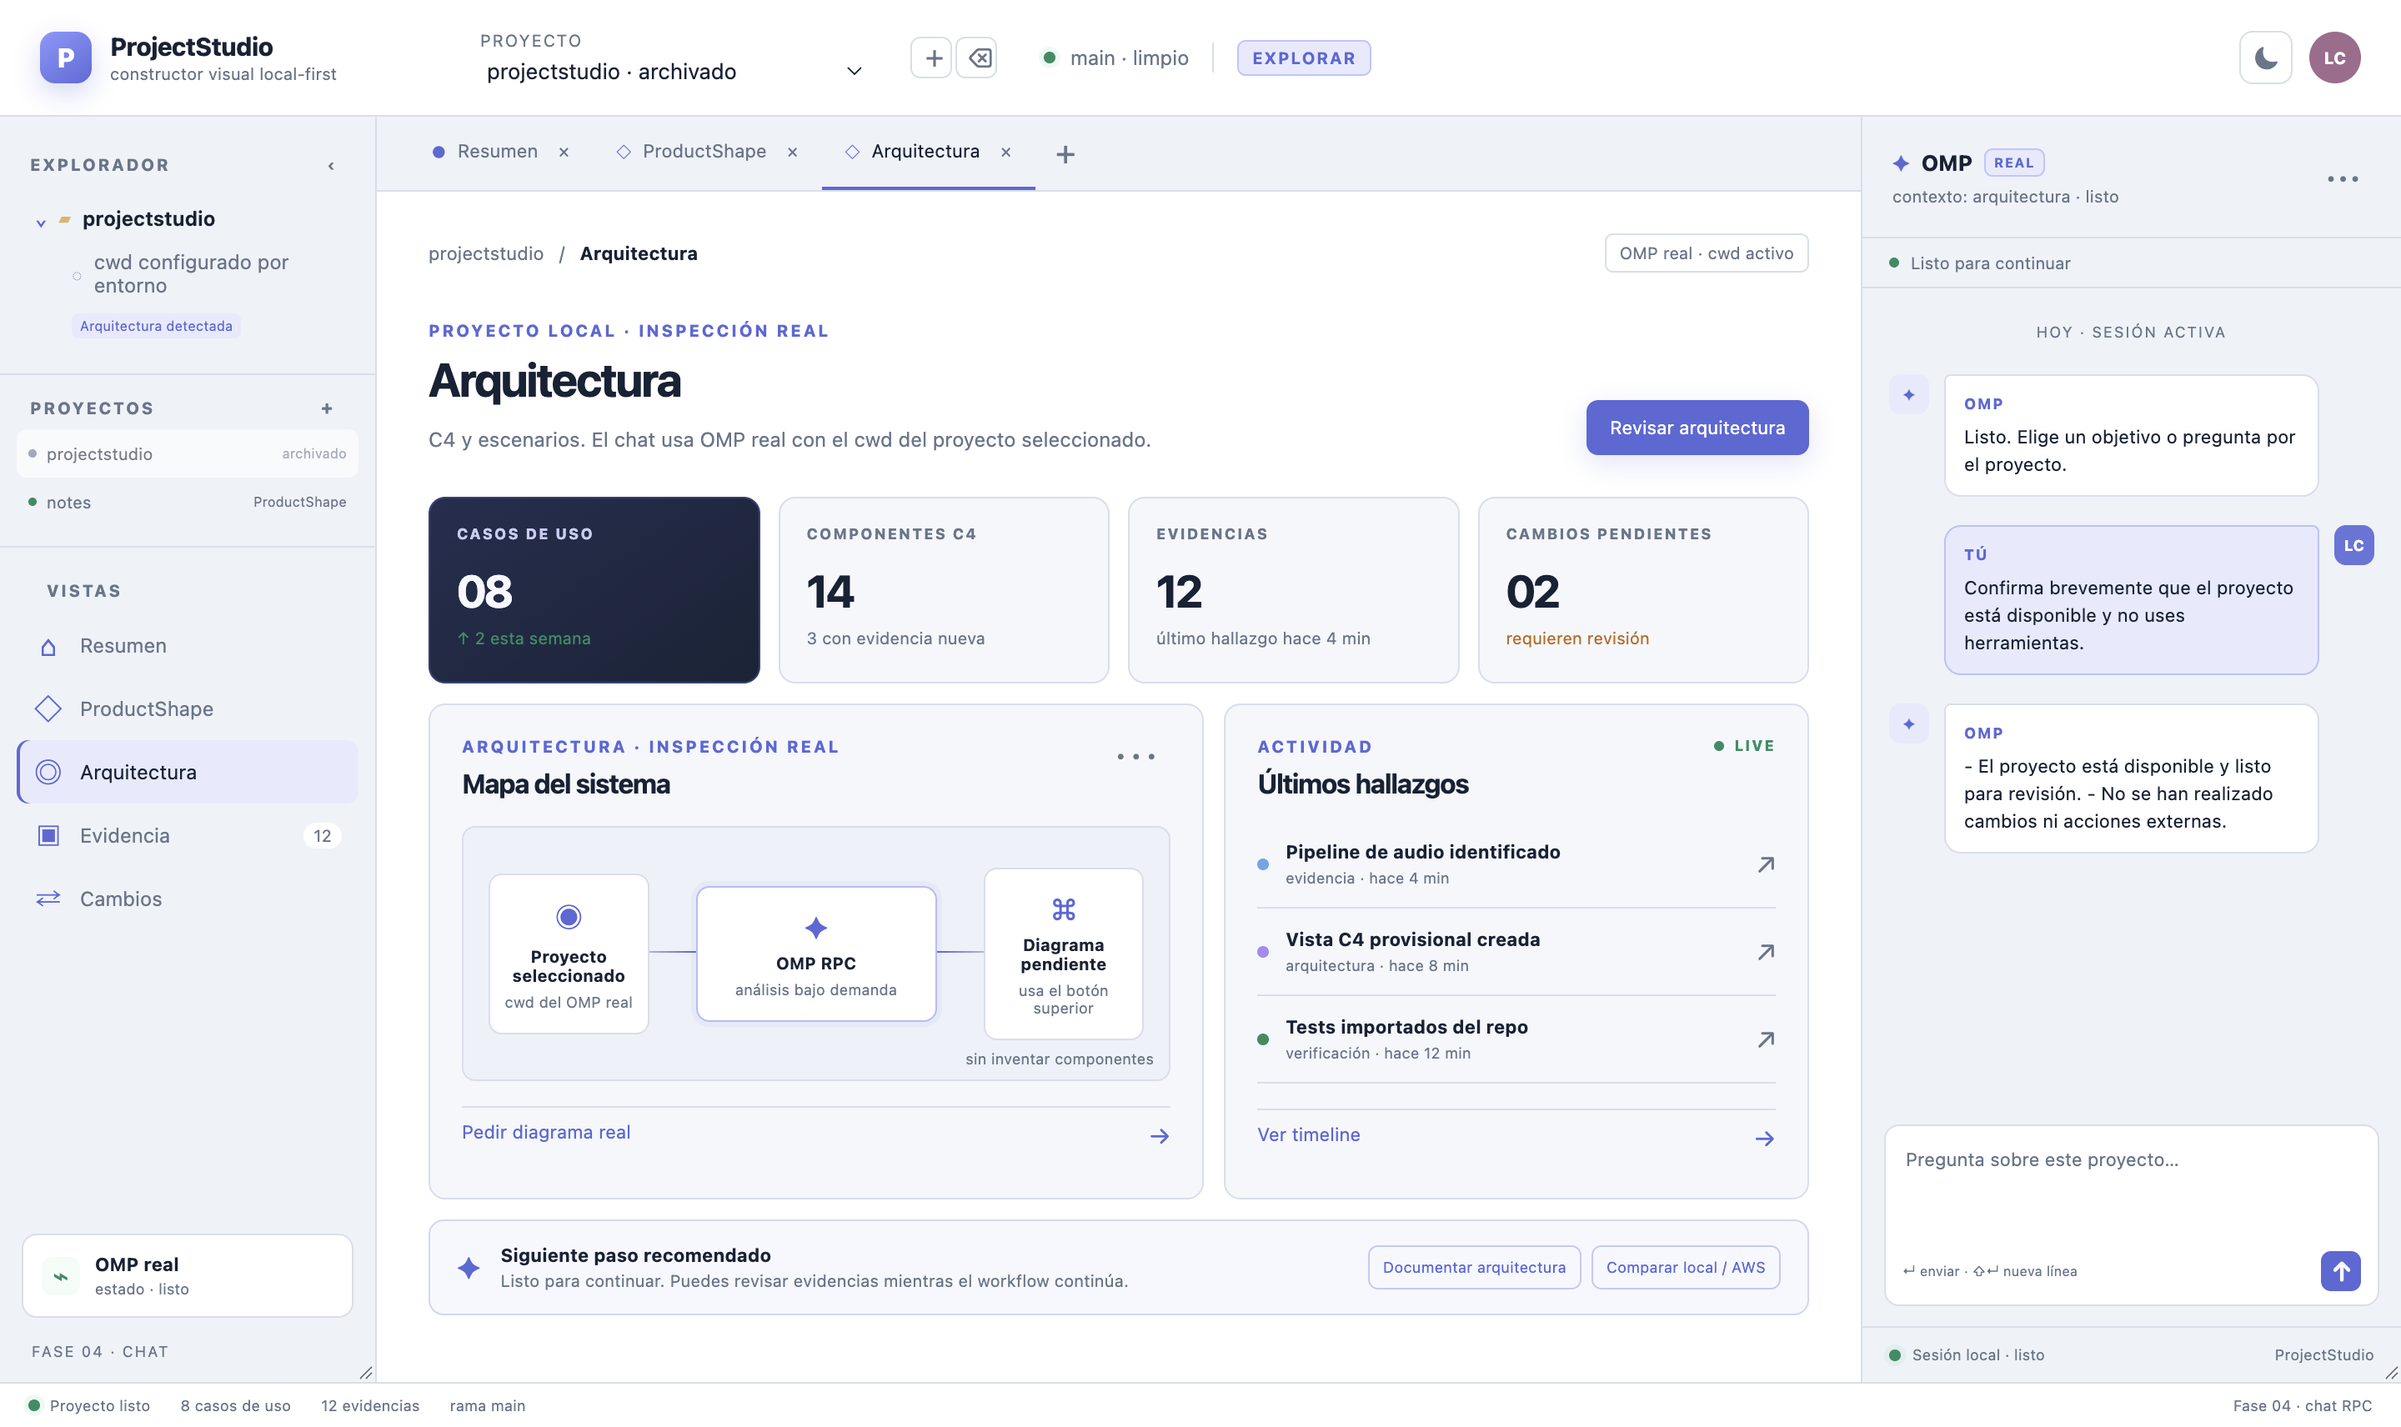
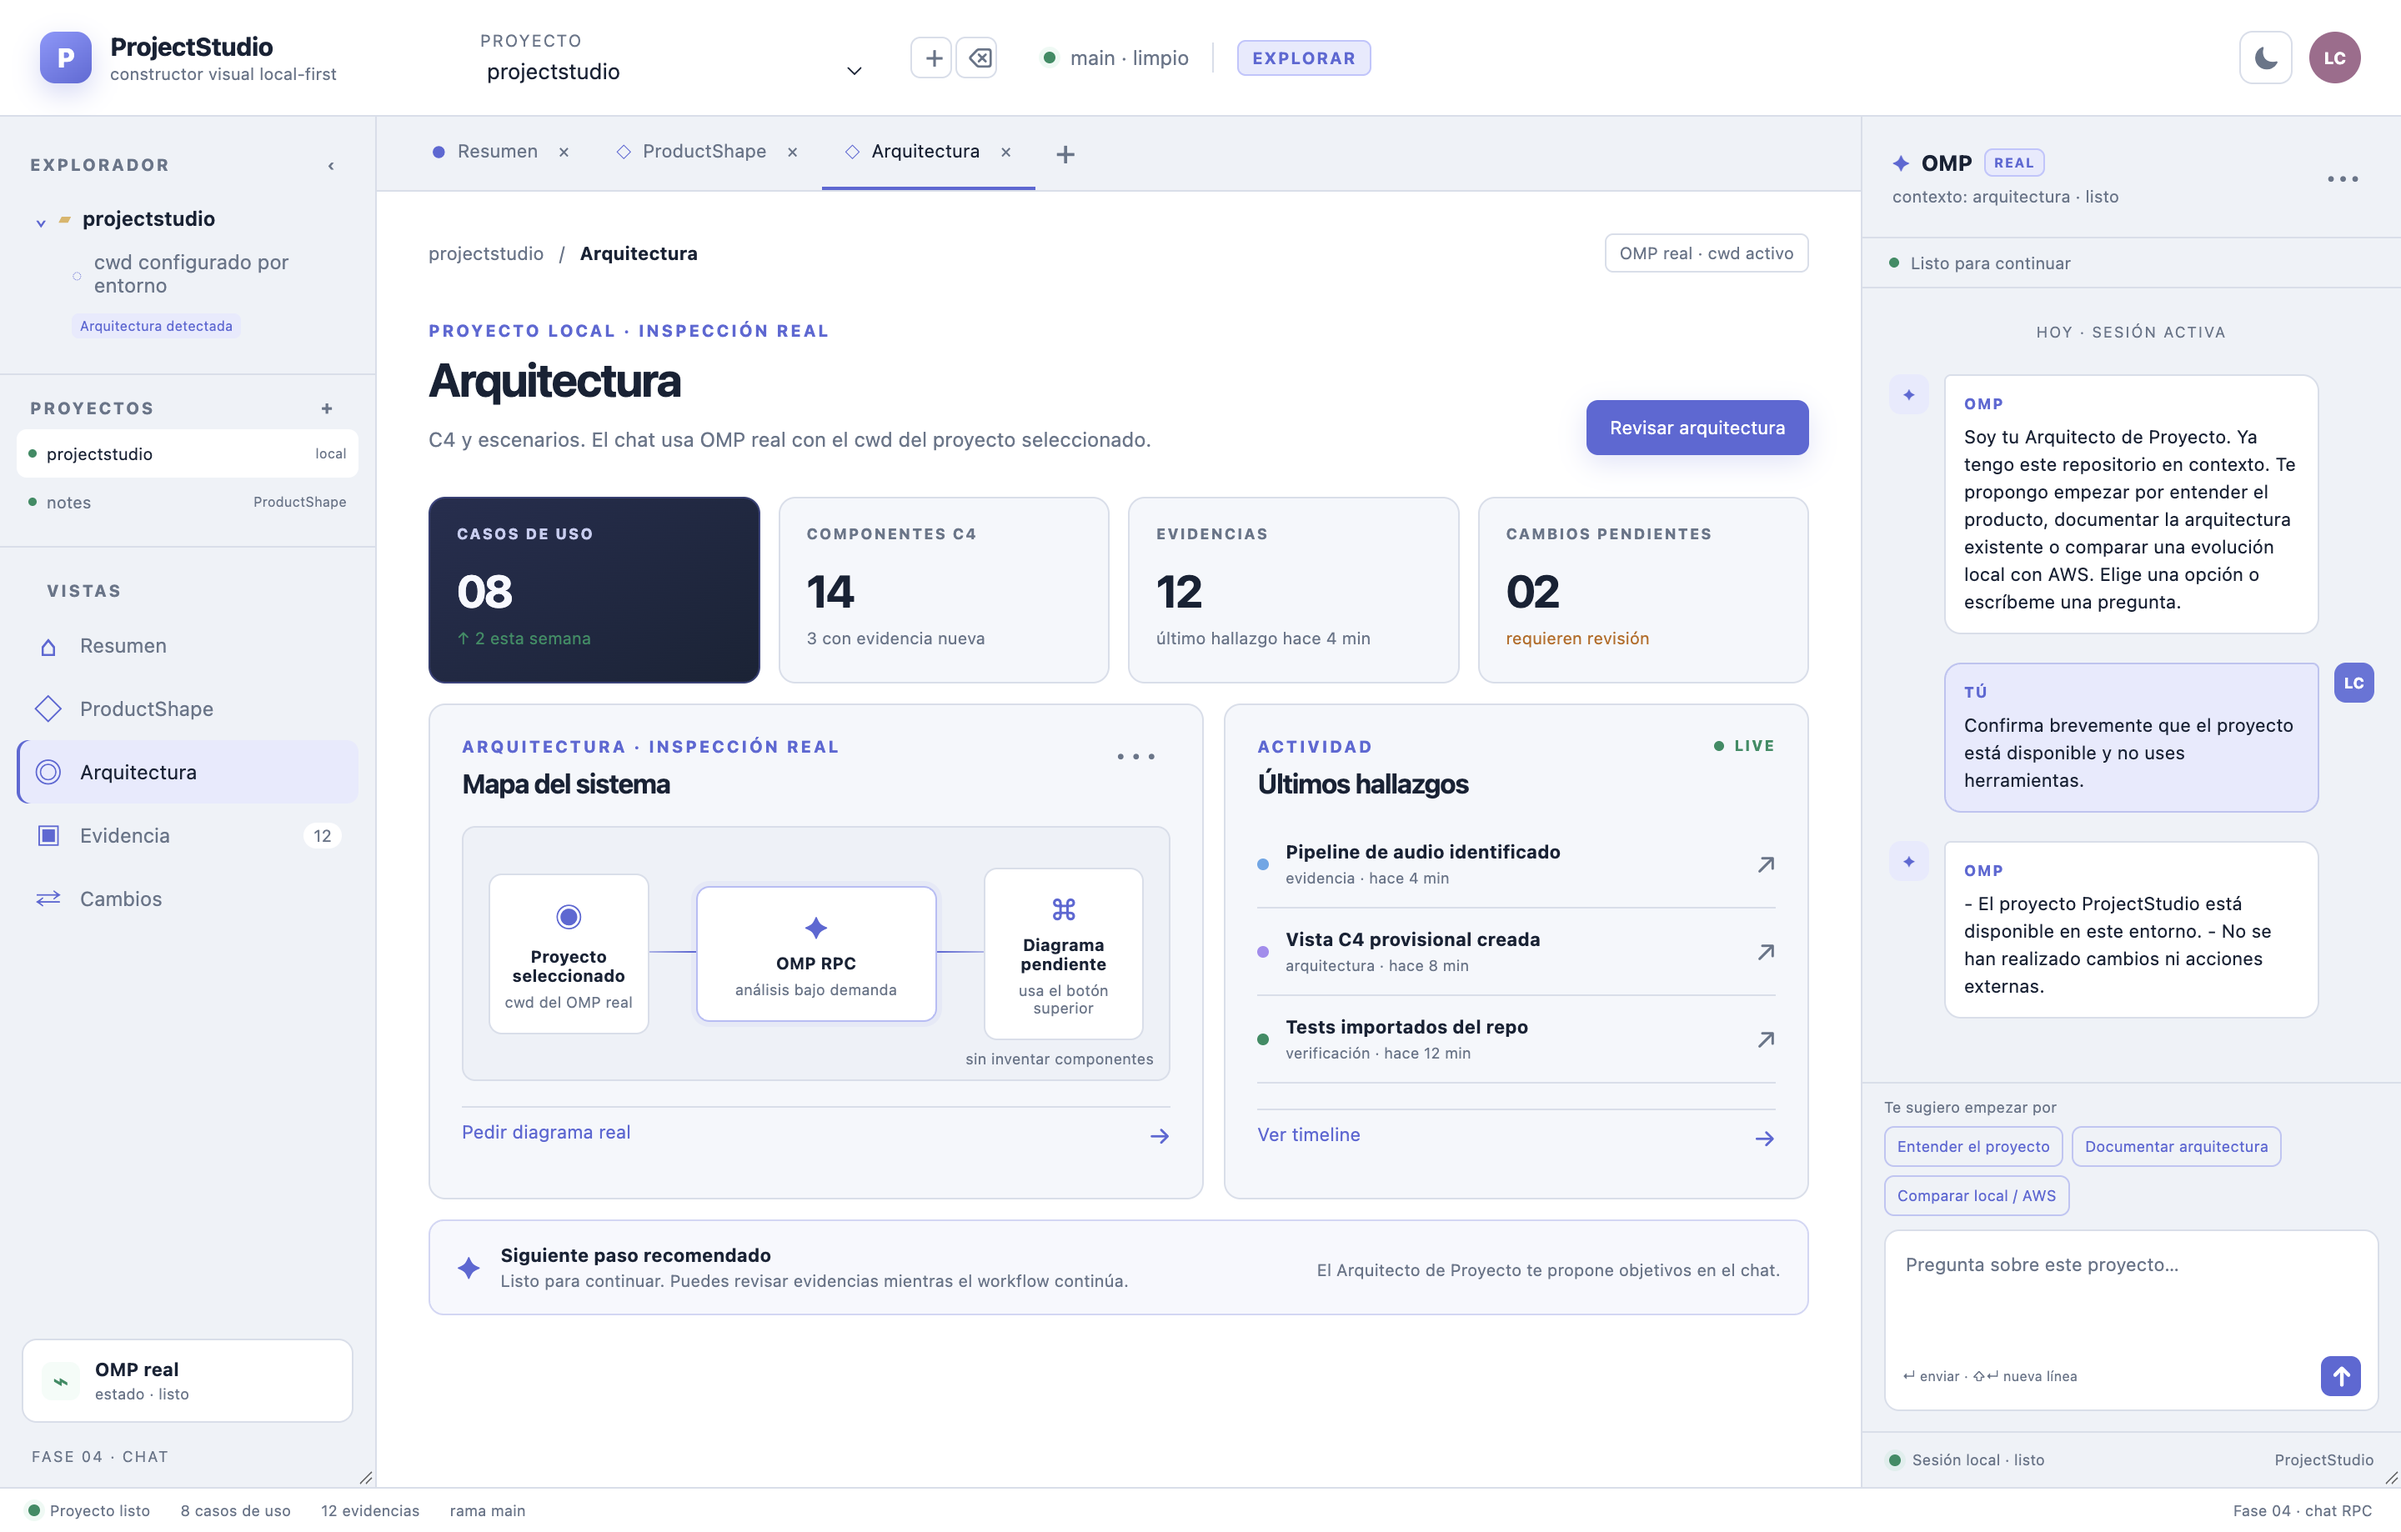
fix: surface agent objectives in chat

diff --git a/apps/desktop/src/renderer/styles.css b/apps/desktop/src/renderer/styles.css
@@ -122,8 +122,9 @@ h2 { font-size: 16px; }
 .activity-dot.blue { background: #61a8e9; }.activity-dot.purple { background: #a68cf2; }.activity-dot.green { background: var(--green); }
 .activity-row strong, .activity-row small { display: block; }.activity-row strong { font-size: 11px; }.activity-row small { margin-top: 4px; color: var(--muted); font-size: 9px; }.activity-arrow { margin-left: auto; color: var(--muted); }
 .welcome-strip { display: flex; align-items: center; gap: 12px; margin-top: 12px; padding: 14px 16px; border: 1px solid #6c79dd44; border-radius: 9px; background: #6977df0e; }.welcome-icon { color: var(--accent); font-size: 18px; }.welcome-strip strong, .welcome-strip span { display: block; }.welcome-strip strong { font-size: 11px; }.welcome-strip span { margin-top: 3px; color: var(--muted); font-size: 10px; }.suggestion { margin-left: auto; padding: 8px 10px; border: 1px solid #7783ef66; border-radius: 6px; color: var(--accent); background: transparent; font-size: 10px; }
-.chat-panel { display: flex; flex-direction: column; width: 324px; flex: 0 0 324px; border-left: 1px solid var(--line); background: var(--surface-soft); resize: horizontal; overflow: auto; }
+.chat-panel { display: flex; flex-direction: column; width: 324px; flex: 0 0 324px; min-height: 0; border-left: 1px solid var(--line); background: var(--surface-soft); resize: horizontal; overflow: hidden; }
 .chat-header { display: flex; justify-content: space-between; align-items: center; min-height: 73px; padding: 17px 18px; border-bottom: 1px solid var(--line); }.chat-title { display: flex; align-items: center; gap: 7px; font-size: 13px; font-weight: 750; }.omp-orbit { color: var(--accent); }.chat-live { padding: 3px 5px; font-size: 8px; }.chat-context { margin-top: 6px; color: var(--muted); font-size: 10px; }.chat-messages { flex: 1; overflow: auto; padding: 21px 16px; }.chat-date { margin-bottom: 20px; color: var(--muted); font-size: 9px; letter-spacing: .1em; text-align: center; }.message-row { display: flex; gap: 9px; margin-bottom: 17px; }.message-row.user { flex-direction: row-reverse; }.message-avatar { display: grid; place-items: center; width: 24px; height: 24px; flex: 0 0 24px; border-radius: 7px; color: white; background: #6674dc; font-size: 9px; font-weight: 750; }.message-row.omp .message-avatar { color: var(--accent); background: var(--accent-soft); }.message-bubble { max-width: 225px; padding: 10px 11px; border: 1px solid var(--line); border-radius: 4px 10px 10px 10px; color: var(--text); background: var(--surface); font-size: 11px; line-height: 1.5; }.message-row.user .message-bubble { border-color: #6774d955; border-radius: 10px 4px 10px 10px; background: var(--accent-soft); }.message-author { margin-bottom: 5px; color: var(--accent); font-size: 9px; font-weight: 750; letter-spacing: .08em; }.chat-composer { margin: 0 13px 12px; padding: 10px 10px 8px; border: 1px solid var(--line); border-radius: 9px; background: var(--surface); }.chat-composer textarea { width: 100%; resize: none; border: 0; outline: 0; color: var(--text); background: transparent; font-size: 11px; line-height: 1.5; }.chat-composer textarea::placeholder { color: var(--muted); }.composer-footer { display: flex; align-items: center; margin-top: 8px; }.composer-hint { color: var(--muted); font-size: 8px; }.send-button { display: grid; place-items: center; width: 24px; height: 24px; margin-left: auto; border: 0; border-radius: 6px; color: white; background: var(--accent); font-weight: 700; }.chat-footer { display: flex; gap: 7px; align-items: center; padding: 11px 16px; border-top: 1px solid var(--line); color: var(--muted); font-size: 9px; }.footer-spacer { flex: 1; }.statusbar { display: flex; align-items: center; gap: 18px; height: 27px; padding: 0 17px; color: var(--muted); background: var(--surface); border-top: 1px solid var(--line); font-size: 9px; }.statusbar span { display: flex; align-items: center; gap: 6px; }.statusbar-spacer { flex: 1; }
+.chat-messages { min-height: 0; }
 .message-bubble.streaming { border-color: var(--accent); }
 .chat-error { margin: 0 13px 8px; padding: 8px 9px; border: 1px solid #d9787866; border-radius: 7px; color: #e99b9b; background: #d9787812; font-size: 9px; line-height: 1.4; }
 
@@ -144,9 +145,13 @@ h2 { font-size: 16px; }
 .chat-activity { display: flex; align-items: center; gap: 7px; min-height: 30px; padding: 0 16px; border-bottom: 1px solid var(--line); color: var(--muted); font-size: 10px; }
 .activity-pulse { width: 6px; height: 6px; flex: 0 0 6px; border-radius: 50%; background: var(--green); }
 .activity-pulse.active { background: var(--accent); box-shadow: 0 0 0 3px #7c8cff22; }
-.suggestion-actions { display: flex; gap: 6px; margin-left: auto; }
-.suggestion-actions button { padding: 7px 8px; border: 1px solid #7783ef66; border-radius: 6px; color: var(--accent); background: transparent; font-size: 9px; }
-.suggestion-actions button:hover { background: var(--accent-soft); }
+.suggestion-note { margin-left: auto; color: var(--muted); font-size: 9px; }
+.chat-suggestions { padding: 9px 13px 8px; border-top: 1px solid var(--line); background: var(--surface-soft); }
+.chat-suggestions-label { margin-bottom: 6px; color: var(--muted); font-size: 9px; }
+.chat-suggestions-grid { display: flex; flex-wrap: wrap; gap: 5px; }
+.chat-suggestions-grid button { padding: 6px 7px; border: 1px solid #7783ef66; border-radius: 6px; color: var(--accent); background: transparent; font-size: 9px; }
+.chat-suggestions-grid button:hover:not(:disabled) { background: var(--accent-soft); }
+.chat-suggestions-grid button:disabled { cursor: default; opacity: .45; }
 .diagram-svg { display: block; width: max(100%, 950px); height: auto; min-height: 180px; overflow: visible; }
 .diagram-edge { fill: none; stroke: var(--accent); stroke-width: 1.5; stroke-opacity: .72; }
 .diagram-svg-node rect { fill: var(--surface); stroke: #7783efaa; stroke-width: 1.2; filter: drop-shadow(0 3px 4px #00000018); }

diff --git a/apps/desktop/src/renderer/main.tsx b/apps/desktop/src/renderer/main.tsx
@@ -14,7 +14,7 @@ const navigation: Array<{ section: Section; icon: string; detail: string }> = [
 ];
 
 const initialMessages: Message[] = [
-  { author: "omp", text: "Listo. Elige un objetivo o pregunta por el proyecto." },
+  { author: "omp", text: "Soy tu Arquitecto de Proyecto. Ya tengo este repositorio en contexto. Te propongo empezar por entender el producto, documentar la arquitectura existente o comparar una evolución local con AWS. Elige una opción o escríbeme una pregunta." },
 ];
 
 function reviewPrompt(section: Section): string {
@@ -377,10 +377,7 @@ function App(): JSX.Element {
               </div>
               {bootstrapFailed
                 ? <button className="outline-button" onClick={() => void continueDiscovery()}>Continuar análisis</button>
-                : <div className="suggestion-actions">
-                  <button onClick={() => { setSection("Arquitectura"); setActiveTab("Arquitectura"); void sendMessage("Documenta la arquitectura existente a partir de ProductShape, src/ y tests.", "architecture-documentation"); }}>Documentar arquitectura</button>
-                  <button onClick={() => void sendMessage("Propón una variante local y otra AWS para este producto, con trade-offs y riesgos.", "architecture-planning")}>Comparar local / AWS</button>
-                </div>}
+                : <span className="suggestion-note">El Arquitecto de Proyecto te propone objetivos en el chat.</span>}
             </section>
           </div>
         </main>
@@ -391,6 +388,14 @@ function App(): JSX.Element {
           <div className="chat-messages" aria-live="polite">
             <div className="chat-date">HOY · SESIÓN ACTIVA</div>
             {messages.map((message, index) => <div className={`message-row ${message.author}`} key={`${message.author}-${index}`}><div className="message-avatar">{message.author === "omp" ? "✦" : "LC"}</div><div className={`message-bubble ${message.streaming ? "streaming" : ""}`}><div className="message-author">{message.author === "omp" ? "OMP" : "TÚ"}</div>{message.author === "omp" ? <AssistantContent text={message.text || (message.streaming ? "…" : "")} /> : message.text}</div></div>)}
+          </div>
+          <div className="chat-suggestions" aria-label="Objetivos sugeridos">
+            <div className="chat-suggestions-label">Te sugiero empezar por</div>
+            <div className="chat-suggestions-grid">
+              <button onClick={() => void sendMessage("Analiza este proyecto como brownfield: empieza por docs/product y después contrasta con el código. Devuelve hechos, inferencias, incógnitas y un diagrama confirmado.", "brownfield-discovery")} disabled={sending}>Entender el proyecto</button>
+              <button onClick={() => void sendMessage("Documenta la arquitectura existente a partir de ProductShape, src/ y tests.", "architecture-documentation")} disabled={sending}>Documentar arquitectura</button>
+              <button onClick={() => void sendMessage("Propón una variante local y otra AWS para este producto, con trade-offs y riesgos.", "architecture-planning")} disabled={sending}>Comparar local / AWS</button>
+            </div>
           </div>
           {chatError && <div className="chat-error" role="alert">{chatError}</div>}
           <div className="chat-composer"><textarea value={chatInput} onChange={(event) => setChatInput(event.target.value)} onKeyDown={(event) => { if (event.key === "Enter" && !event.shiftKey) { event.preventDefault(); void sendMessage(); } }} placeholder="Pregunta sobre este proyecto…" aria-label="Mensaje para OMP" rows={3} /><div className="composer-footer"><span className="composer-hint">{sending ? "Tarea en curso…" : "↵ enviar · ⇧↵ nueva línea"}</span><button className="send-button" onClick={() => void sendMessage()} aria-label="Enviar mensaje">↑</button></div></div>

diff --git a/tests/e2e/desktop-smoke.ts b/tests/e2e/desktop-smoke.ts
@@ -17,14 +17,12 @@ const app = await electron.launch({
 });
 try {
   const window = await app.firstWindow();
-  window.on("pageerror", (error) => console.error(`renderer pageerror: ${error.message}`));
-  window.on("console", (message) => { if (message.type() === "error") console.error(`renderer console: ${message.text()}`); });
   const resizeDirections = await window.locator(".sidebar, .chat-panel").evaluateAll((elements) => elements.map((element) => getComputedStyle(element).resize));
   if (resizeDirections.some((direction) => direction !== "horizontal")) throw new Error(`panel resize contract failed: ${resizeDirections.join(",")}`);
   await window.getByText("PROYECTOS", { exact: true }).waitFor();
   await window.getByTitle("Añadir o crear referencia a un proyecto local").waitFor();
-  await window.getByTitle("Archivar referencia; no borra archivos").waitFor();
-  await window.screenshot({ path: resolve(evidenceDirectory, "F04-T01-desktop-chat-dark.png"), fullPage: true });
+  if (!(await window.getByLabel("Mensaje para OMP").isVisible())) throw new Error("chat composer is not visible");
+  await window.getByRole("button", { name: "Entender el proyecto" }).waitFor();
 
   await window.getByRole("button", { name: "Cambiar tema" }).click();
   await window.screenshot({ path: resolve(evidenceDirectory, "F04-T01-desktop-chat-light.png"), fullPage: true });

diff --git a/README.md b/README.md
@@ -88,6 +88,8 @@ Los artefactos del proyecto analizado no se borran ni se escriben durante esta g
 10. Comprueba progreso resumido, respuesta final del workflow y estado `settled`.
 11. Cambia entre tema oscuro y claro; arrastra los bordes del explorador y chat.
 12. Si OMP devuelve Mermaid, comprueba el mapa visual en chat y canvas central.
+13. En el chat inicial confirma que aparece la personalidad `Arquitecto de Proyecto` y los objetivos `Entender el proyecto`, `Documentar arquitectura` y `Comparar local / AWS`.
+14. Pulsa uno de esos objetivos o escribe una pregunta nueva en el composer visible del panel derecho.
 ## Cómo se ejecutan las peticiones
 
 El chat y los botones no llaman a OMP directamente. Envían un comando al proceso principal; el workflow LangGraph selecciona el flujo (brownfield, documentación de arquitectura o propuesta local/cloud) y sólo su nodo de agente invoca OMP. La UI muestra progreso resumido y resultados publicados; no muestra prompts, argumentos de herramientas ni frames RPC.

diff --git a/docs/implementation/STATUS.md b/docs/implementation/STATUS.md
@@ -118,6 +118,7 @@ OMP_BIN=/ruta/a/omp pnpm desktop
 | F05-T08 | done | actividad resumida visible; prompts, deltas y frames internos ocultos |
 | F05-T09 | done | listado visible, alta por carpeta, cambio de cwd y archivado soft-delete |
 | F05-T10 | done | `.tmp/projectstudio-projects.json`, detección al retomar y ADR-024 |
+| F05-T11 | done | personalidad visible del Arquitecto de Proyecto, objetivos sugeridos dentro del chat y composer visible |
 ### Verificación F05
 
 ```bash
